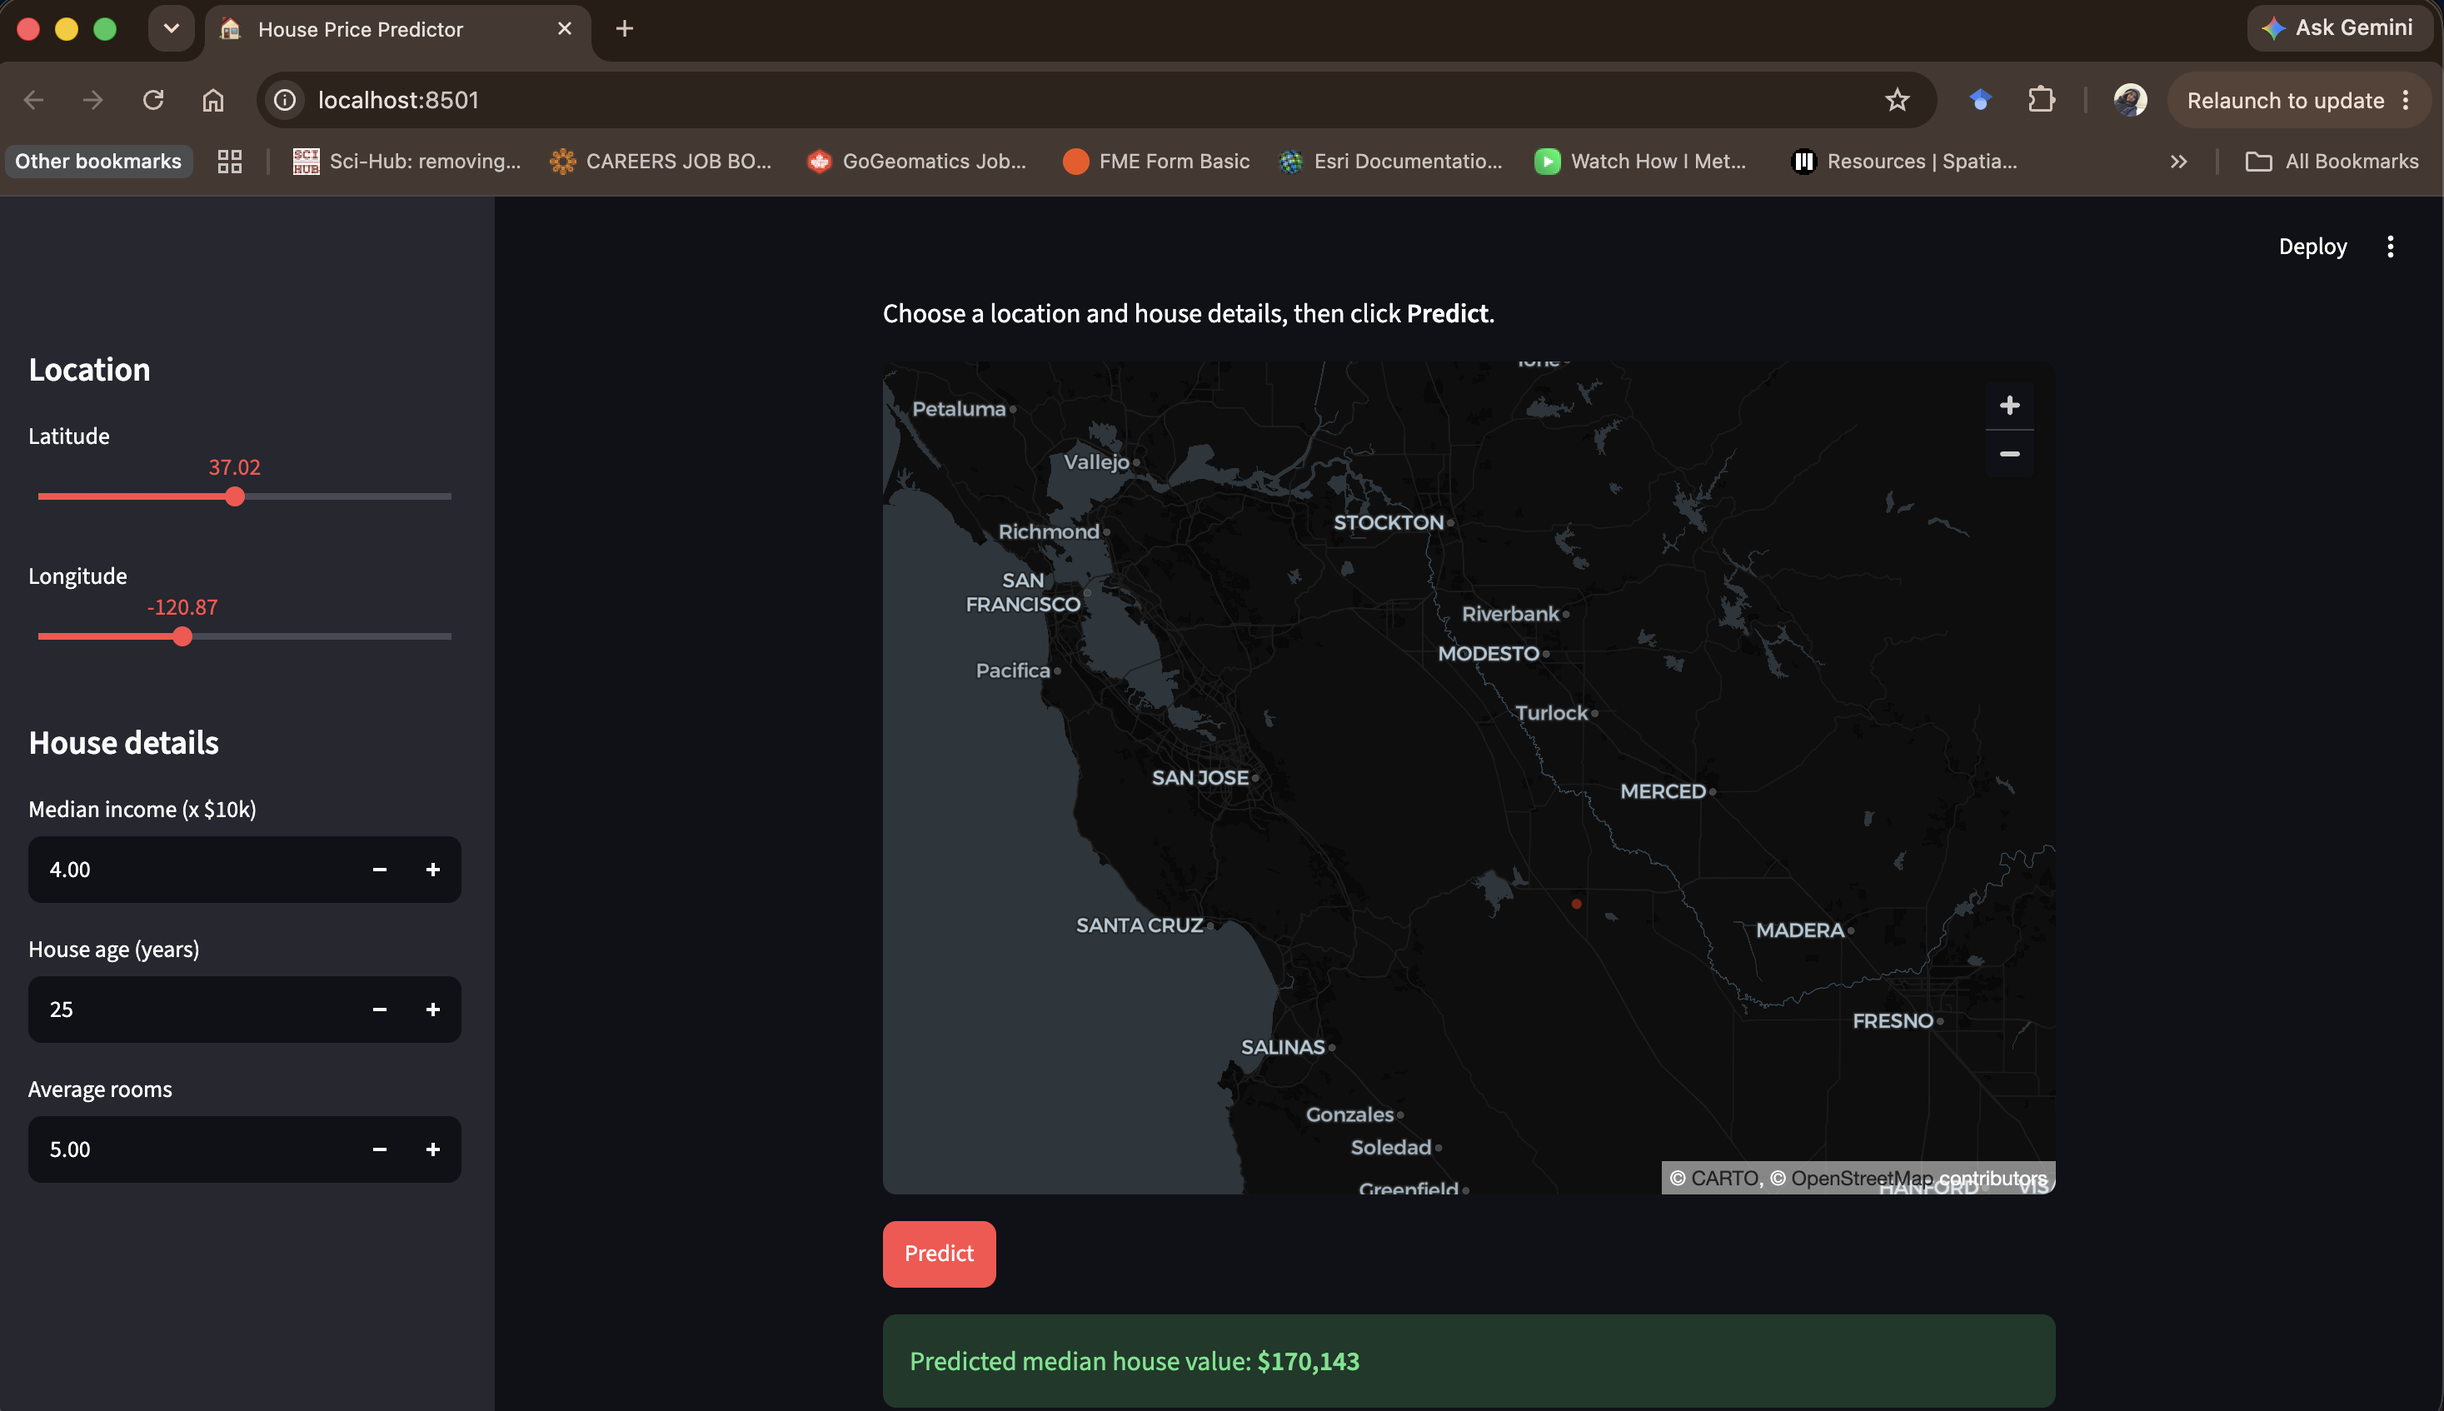
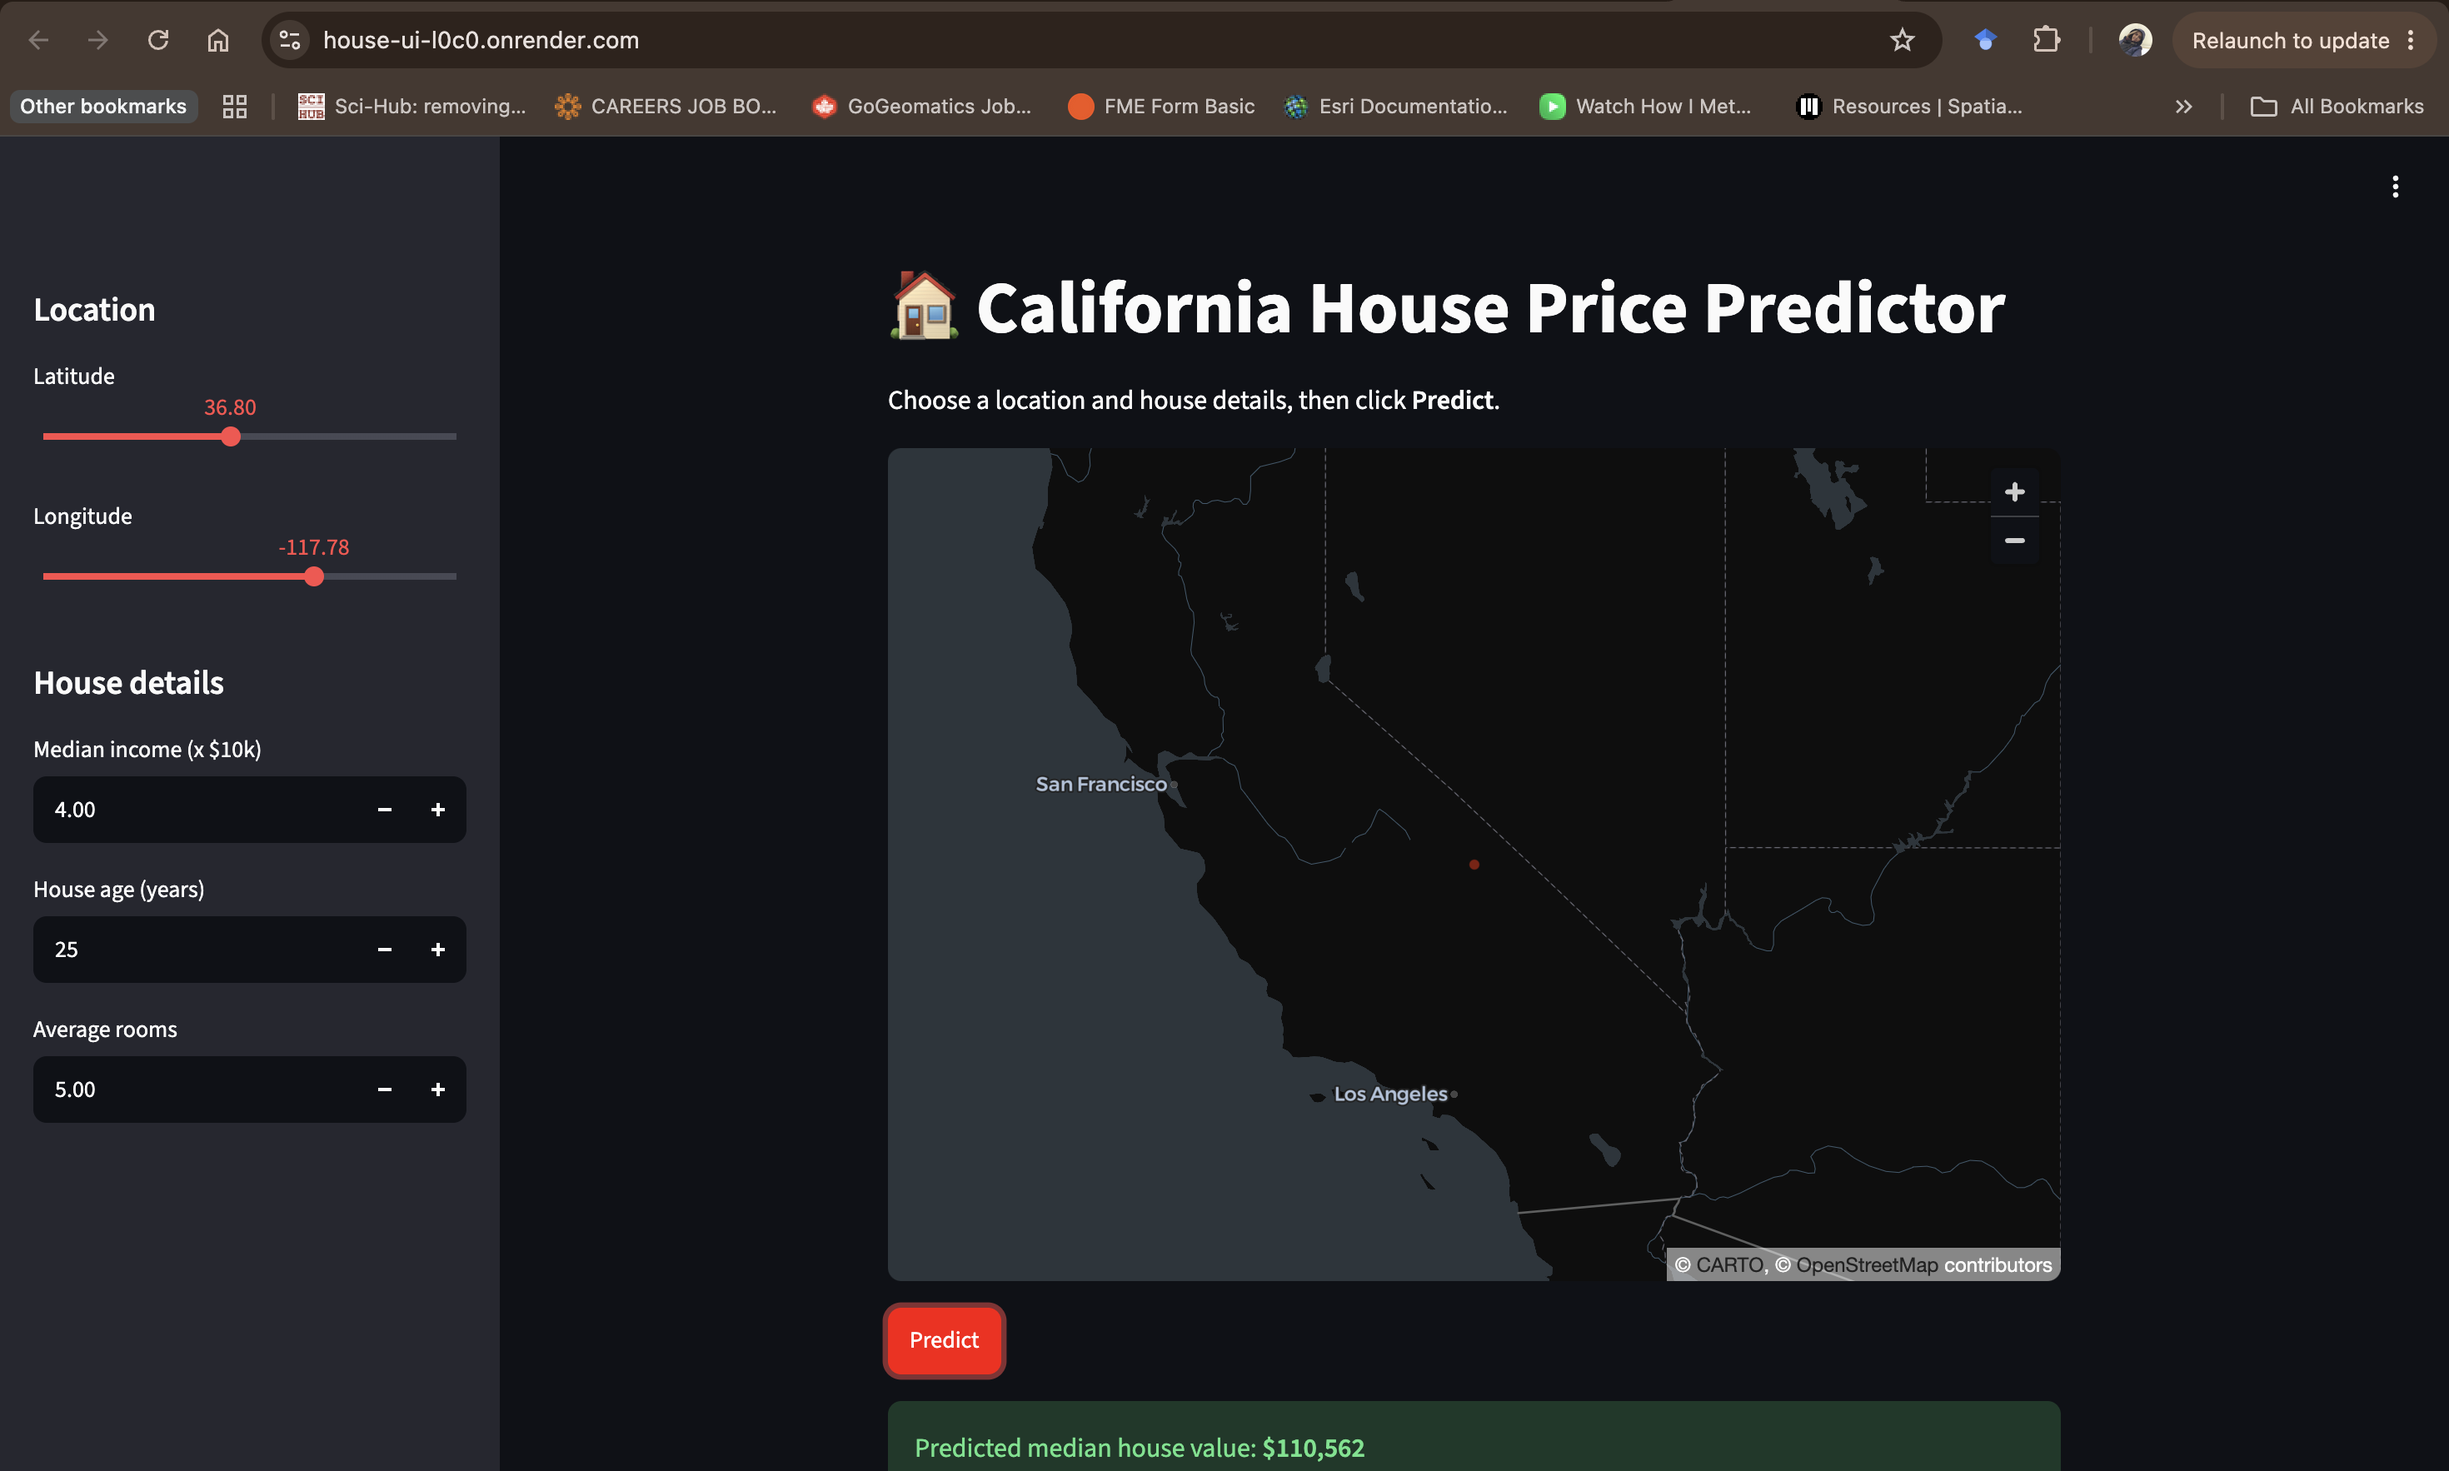
Add live demo links and updated screenshot

diff --git a/README.md b/README.md
@@ -4,12 +4,18 @@
 
 An end-to-end machine learning service that predicts California house values from location and housing features. A Random Forest model is served through a FastAPI REST API, with an interactive Streamlit map interface. Both services are containerized with Docker and run together with a single command.
 
+**Live demo:** https://house-ui-l0c0.onrender.com
+**API docs:** https://house-price-ml-nb1a.onrender.com/docs
+
+> Hosted on Render's free tier, so the first request after a period of inactivity may take up to a minute while the services wake up.
+
 ![Screenshot](screenshot.png)
 
 ## Architecture
 
 ```
 Browser → Streamlit UI (:8501) → FastAPI (:8000) → Random Forest model
+In production, each service runs as a separate Docker web service on Render, with automatic redeploys on every push to `main`.
 ```
 
 Docker Compose runs the UI and API as separate containers on a shared network. The UI reaches the API by its service name, configured through an environment variable.
@@ -74,6 +80,6 @@ cd api && python -m pytest -v
 
 ## Next steps
 
-- Deploy to a cloud platform
+- Add automated tests for the Streamlit UI
 - Add model versioning and experiment tracking
 - Add request logging and monitoring
